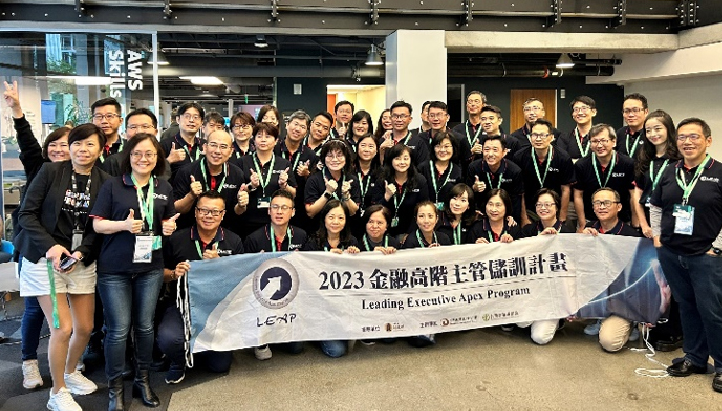
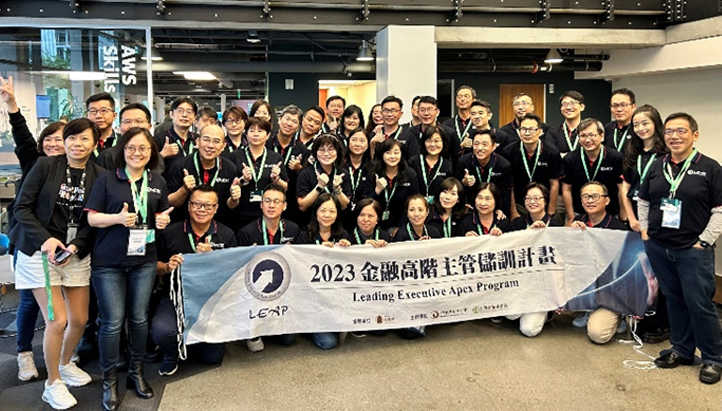
update

diff --git a/tabf.org.tw.en/training.html b/tabf.org.tw.en/training.html
@@ -342,7 +342,46 @@
                             <div class="img-full">
                                 <img src="images/functions/training/training-04.png" alt="title-04">
                             </div>
-                            <img src="images/functions/training/training-05.png" alt="title-05">
+
+                            <div class="program-wrap">
+
+                                <div class="program-item">
+                                    <div class="title">
+                                        <div class="arrow"></div>
+                                        <div class="text">ITDP</div>
+                                    </div>
+                                    <div class="description">
+                                        <p><b>International Talent Development Program</b></p>
+                                        <p>- Developing mid-level management talent for international financial operations in Taiwan<br>
+                                        - Enhancing international mindset, innovation, and adaptability</p>
+                                    </div>
+                                </div>
+                                
+                                <div class="program-item IABTP">
+                                    <div class="title">
+                                        <div class="arrow"></div>
+                                        <div class="text">IABTP</div>
+                                    </div>
+                                    <div class="description">
+                                        <p><b>International Advanced Banking Training Program</b></p>
+                                        <p>- Five Key Financial Sector Course Modules<br>
+                                            - Mastering international best practices and acquiring new perspectives</p>
+                                    </div>
+                                </div>
+                                
+                                <div class="program-item BEAP">
+                                    <div class="title">
+                                        <div class="arrow"></div>
+                                        <div class="text">BEAP</div>
+                                    </div>
+                                    <div class="description">
+                                        <p><b>Bank Examiners and Auditors Program</b></p>
+                                        <p>- Focusing on emerging risk issues<br>
+                                            - Initiating new transformations in internal audit and risk control</p>
+                                    </div>
+                                </div>
+                            </div>
+                            <!-- <img src="images/functions/training/training-05.png" alt="title-05"> -->
                         </section>
     
                         <section>
@@ -359,7 +398,7 @@
                                 </div>
                                 <div class="col-md-6 mb-4">
                                     <figure class="figure">
-                                        <img src="images/functions/training/training-figure-01.jpg" class="figure-img img-fluid" alt="A group photo taken at the Leading Executive Apex Program (LEAP) held in Seattle, USA.">
+                                        <img src="images/functions/training/training-figure-02.jpg" class="figure-img img-fluid" alt="A group photo taken at the Leading Executive Apex Program (LEAP) held in Seattle, USA.">
                                         <figcaption class="figure-caption">A group photo taken at the Leading Executive Apex Program (LEAP) held in Seattle, USA.</figcaption>
                                     </figure>
                                 </div>

diff --git a/tabf.org.tw.en/css/style.css b/tabf.org.tw.en/css/style.css
@@ -1,4 +1,4 @@
-@import url('https://fonts.googleapis.com/css2?family=Public+Sans:ital,wght@0,100..900;1,100..900&display=swap');
+@import url('https://fonts.googleapis.com/css2?family=Bebas+Neue&family=Public+Sans:ital,wght@0,100..900;1,100..900&display=swap');
 
 * {
     font-family: "Public Sans", sans-serif;
@@ -7,6 +7,7 @@
 :root {
     --font-Sans: 'Noto Sans TC', sans-serif;
     --font-Serif: 'Noto Serif TC', serif;
+    --font-Other: 'Bebas Neue', serif;
     --font-Size: 1.2em;
     --font-Title: 3rem;
     --font-p: 1.5rem;
@@ -2038,6 +2039,85 @@ h3 .btn-href::before {
     .subjects-item .img {
         width: 60px;
     }
+}
+
+/* program-wrap */
+.program-item {    
+    display: -ms-flexbox;
+    display: flex;
+    -ms-flex-wrap: wrap;
+    flex-wrap: wrap;
+    margin-bottom: 20px;
+}
+.program-item .title {
+    -ms-flex: 0 0 33.333333%;
+    flex: 0 0 33.333333%;
+    max-width: 33.333333%;
+    display: flex;
+}
+.program-item .title .text {
+    font-size: 13rem;
+    font-family: var(--font-Other);
+    line-height: 210px;
+    color: #cdc314;
+    margin-left: 10px;
+}
+.program-item .arrow {
+    position: relative;
+    background: #cdc314;
+    width: 65px;
+    height: calc(100% - 32px);
+}
+.program-item .arrow::after {
+    content: " ";
+    display: block;
+    width: 0;
+    height: 0;
+    border-left: 33px solid transparent;
+    border-right: 32px solid transparent;
+    border-top: 22px solid #cdc314;
+    position: absolute;
+    top: 100%;
+    margin-left: 1px;
+    bottom: 100%;
+    z-index: 1;
+}
+.program-item .description {
+    padding: 20px;
+    -ms-flex: 0 0 66.666667%;
+    flex: 0 0 66.666667%;
+    max-width: 66.666667%;
+    background: #cdc314;
+    color: #fff;
+}
+.program-item .description p:last-child {
+    margin-bottom: 0;
+}
+.IABTP.program-item .title .text {
+    font-size: 10rem;
+}
+.IABTP.program-item .title .text {
+    color: #a2cd04;
+}
+.IABTP.program-item .arrow,
+.IABTP.program-item .description {
+    background: #a2cd04;
+}
+.IABTP.program-item .arrow::after {
+    border-top: 22px solid #a2cd04;
+}
+.BEAP.program-item .title .text {
+    font-size: 11rem;
+}
+.BEAP.program-item .title .text {
+    color: #567a00;
+}
+.BEAP.program-item .arrow,
+.BEAP.program-item .description {
+    background: #567a00;
+}
+.BEAP.program-item .arrow::after {
+    border-top: 22px solid #567a00;
 }
 
 /* figure */
